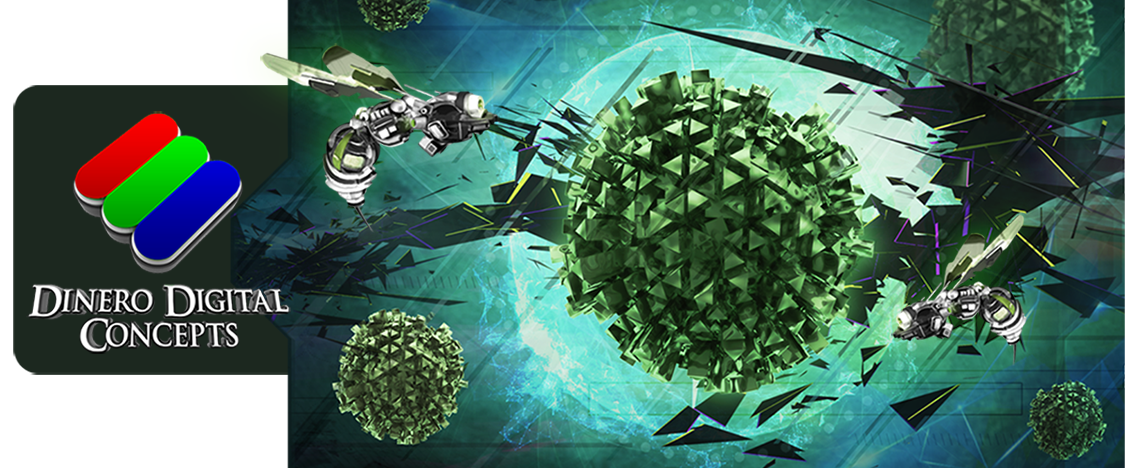
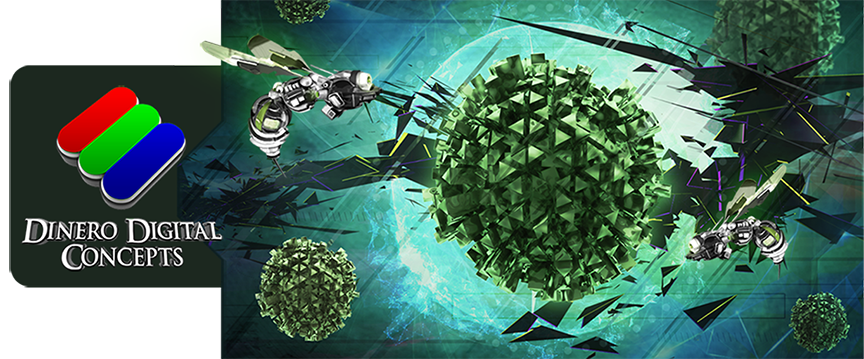
Animated testimonial section and added images.

diff --git a/public_html/documentation/index.html b/public_html/documentation/index.html
@@ -65,7 +65,6 @@
                     </div>
                 </div>
             </div>
-        </div>
         <div data-aos="fade-right">
             <div class="container-fluid my-5">
                 <div class="container">
@@ -106,7 +105,7 @@
                 <div data-aos="fade-right">
                     <div class="row">
                         <div class="col-sm-2 my-2 py-auto">
-                            <img src="In the Name Square.jpg" class="rounded img-fluid mx-auto py-auto d-block" alt="Insta Square" />
+                            <img src="IMG_2387.jpg" class="rounded img-fluid mx-auto py-auto d-block" alt="Insta Square" />
                         </div>
                         <div class="col-sm text-white my-auto py-auto">
                             <h3>Graphic Design</h3>
@@ -121,7 +120,7 @@
                 <div data-aos="fade-right">
                 <div class="row">
                     <div class="col-sm-2 my-2 py-auto">
-                        <img src="In the Name Square.jpg" class="rounded img-fluid mx-auto py-auto d-block" alt="Insta Square" />
+                        <img src="IMG_2388.jpg" class="rounded img-fluid mx-auto py-auto d-block" alt="Insta Square" />
                     </div>
                     <div class="col-sm text-white my-auto py-auto">
                         <h3>Web Development</h3>
@@ -136,7 +135,7 @@
                 <div data-aos="fade-right">
                     <div class="row">
                         <div class="col-sm-2 my-2 py-auto">
-                            <img src="In the Name Square.jpg" class="rounded img-fluid mx-auto py-auto d-block" alt="Insta Square" />
+                            <img src="my-pixel-1b.jpg" class="rounded img-fluid mx-auto py-auto d-block" alt="Insta Square" />
                         </div>
                         <div class="col-sm text-white my-auto py-auto">
                             <h3>Projection Mapping</h3>
@@ -166,18 +165,55 @@
             </div>
         </div>
     </section>
-    <section>
+    <section id="Past Work">
+        <div data-aos="fade-right">
+            <div class="container-fluid-sm">
+                <div class="card bg-secondary text-white" style="width: 40rem; height: 4rem">
+                    <div class="card-body">
+                        <h2 class="card-title float-right my-auto">Past Work</h2>
+                    </div>
+                </div>
+            </div>
+        </div>
+        <div class="container-fluid my-5">
+            <div class="container">
+                <div data-aos="fade-right">
+                    <div class="row">
+
+                    </div>
+                </div>
+                <div data-aos="fade-right">
+                    <div class="row">
+
+                    </div>
+                </div>
+                <div data-aos="fade-right">
+                    <div class="row">
+                        <
+                    </div>
+                </div>
+                <div data-aos="fade-right">
+                    <div class="row">
+
+                    </div>
+                </div>
+            </div>
+        </div>
+    </section>
+    <section id="Testimonials">
         <div data-aos="fade-right">
             <div class="card bg-secondary text-white" style="width: 39rem; height: 4rem">
                 <div class="card-body">
                     <h2 class="card-title float-right my-auto">Testimonials</h2>
                 </div>
             </div>
-            <div class="container-fluid my-5">
-                <div class="container" id="Story">
+        </div>
+        <div class="container-fluid my-5">
+            <div class="container">
+                <div data-aos="fade-right">
                     <div class="row">
                         <div class="col-sm-2 my-2 py-auto">
-                            <img src="In the Name Square.jpg" class="rounded img-fluid mx-auto py-auto d-block" alt="Insta Square" />
+                            <img src="John.jpg" class="rounded img-fluid mx-auto py-auto d-block" alt="Insta Square" />
                         </div>
                         <div class="col-sm text-white my-auto py-auto">
                             <h3>John Delgato</h3>
@@ -187,11 +223,12 @@
                                 I am working.
                             </p>
                         </div>
-
                     </div>
+                </div>
+                <div data-aos="fade-right">
                     <div class="row">
                         <div class="col-sm-2 my-2 py-auto">
-                            <img src="In the Name Square.jpg" class="rounded img-fluid mx-auto py-auto d-block" alt="Insta Square" />
+                            <img src="Eric.jpg" class="rounded img-fluid mx-auto py-auto d-block" alt="Insta Square" />
                         </div>
                         <div class="col-sm text-white my-auto py-auto">
                             <h3>Eric "Christo" Martinez</h3>
@@ -201,37 +238,41 @@
                                 I am working.
                             </p>
                         </div>
-
                     </div>
-                    <div class="row">
-                        <div class="col-sm-2 my-2 py-auto">
-                            <img src="In the Name Square.jpg" class="rounded img-fluid mx-auto py-auto d-block" alt="Insta Square" />
-                        </div>
-                        <div class="col-sm text-white my-auto py-auto">
-                            <h3>Adam Parker</h3>
-                            <p class="lead">This company started off as a way for me to added a visual flair to my events. Once the pictures
-                                and video hit social media I began to receive messages about doing projection mapping for
-                                other people events. Now I build custom installations and tailor the visuals to match the event
-                                I am working.
-                            </p>
+                    <div data-aos="fade-right">
+                        <div class="row">
+                            <div class="col-sm-2 my-2 py-auto">
+                                <img src="In the Name Square.jpg" class="rounded img-fluid mx-auto py-auto d-block" alt="Insta Square" />
+                            </div>
+                            <div class="col-sm text-white my-auto py-auto">
+                                <h3>Adam Parker</h3>
+                                <p class="lead">This company started off as a way for me to added a visual flair to my events. Once the pictures
+                                    and video hit social media I began to receive messages about doing projection mapping for
+                                    other people events. Now I build custom installations and tailor the visuals to match the event
+                                    I am working.
+                                </p>
+                            </div>
                         </div>
                     </div>
-                    <div class="row">
-                        <div class="col-sm-2 my-2 py-auto">
-                            <img src="In the Name Square.jpg" class="rounded img-fluid mx-auto py-auto d-block" alt="Insta Square" />
-                        </div>
-                        <div class="col-sm text-white my-auto py-auto">
-                            <h3>Sean.C</h3>
-                            <p class="lead">This company started off as a way for me to added a visual flair to my events. Once the pictures
-                                and video hit social media I began to receive messages about doing projection mapping for
-                                other people events. Now I build custom installations and tailor the visuals to match the event
-                                I am working.
-                            </p>
+                    <div data-aos="fade-right">
+                        <div class="row">
+                            <div class="col-sm-2 my-2 py-auto">
+                                <img src="sean.jpg" class="rounded img-fluid mx-auto py-auto d-block" alt="Insta Square" />
+                            </div>
+                            <div class="col-sm text-white my-auto py-auto">
+                                <h3>Sean.C</h3>
+                                <p class="lead">This company started off as a way for me to added a visual flair to my events. Once the pictures
+                                    and video hit social media I began to receive messages about doing projection mapping for
+                                    other people events. Now I build custom installations and tailor the visuals to match the event
+                                    I am working.
+                                </p>
+                            </div>
                         </div>
                     </div>
                 </div>
             </div>
         </div>
+    </section>
     </section>
     <script>
         // When the user scrolls down 20px from the top of the document, show the button

diff --git a/public_html/documentation/style.css b/public_html/documentation/style.css
@@ -9,6 +9,11 @@ html, body {
     background-position: center;
 }
 
+.DDC-Banner {
+    display: block;
+    max-width: 200%;
+    height: auto;
+}
 #myBtn {
     display: none;
     position: fixed;
@@ -17,7 +22,7 @@ html, body {
     z-index: 99;
     border: none;
     outline: none;
-    background: #007bff;
+    background: #2c8069;
     color: white;
     cursor: pointer;
     padding: 15px;
